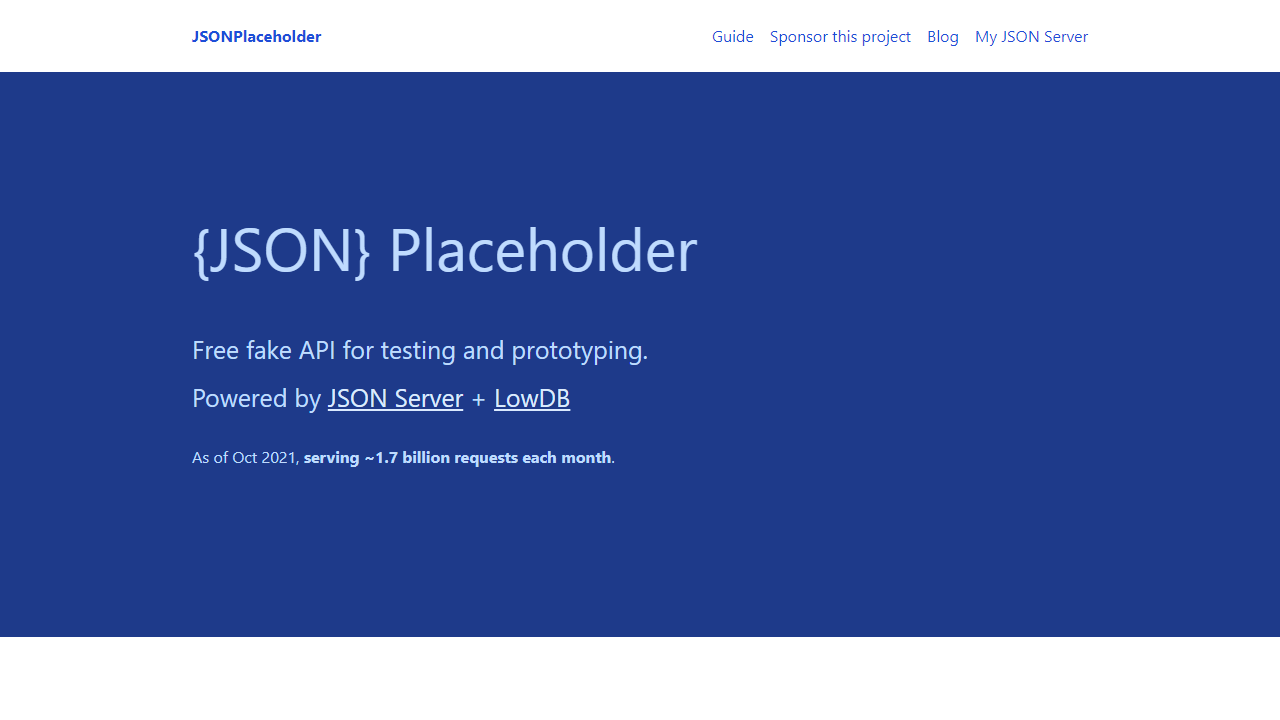
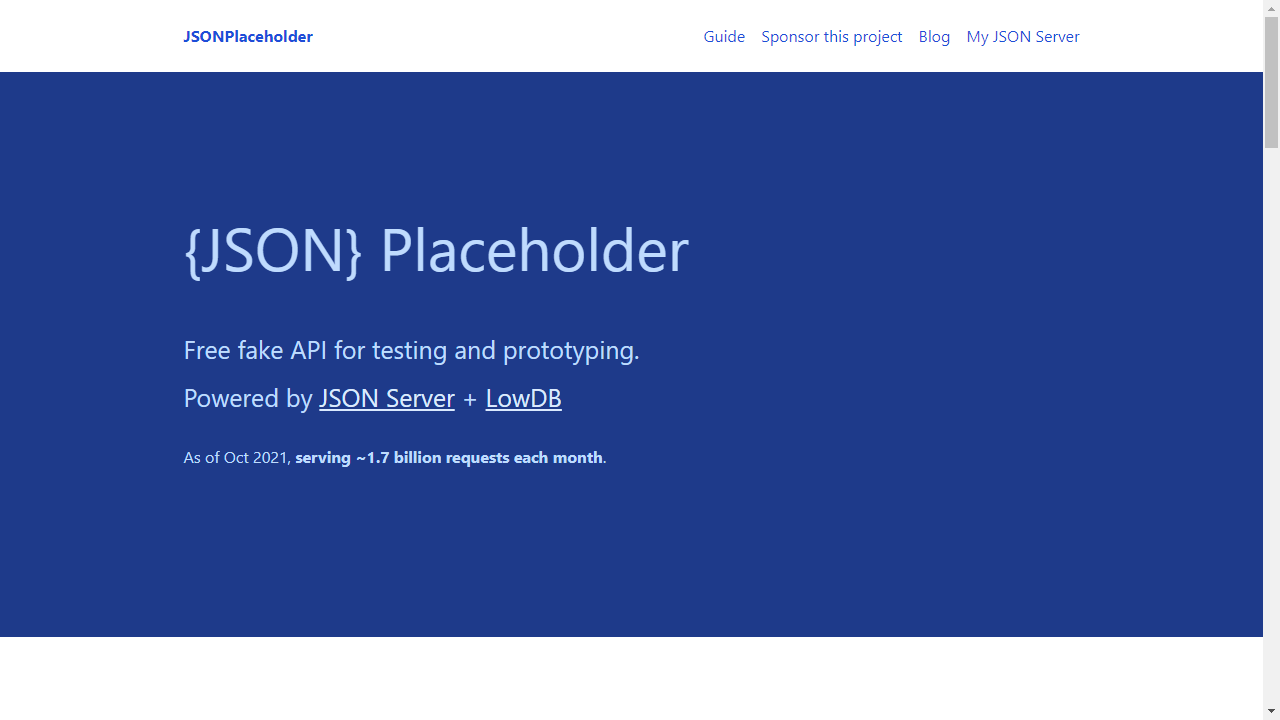
2 commit

diff --git a/specs/noop.spec.js b/specs/noop.spec.js
@@ -1,34 +1,27 @@
 const {MainPage} = require('../framework');
-
 const { chromium } = require('playwright');
-
+const { after } = require('mocha');
 const url = 'https://jsonplaceholder.typicode.com/'
 
-
-
-
-// afterEach( async()=> {
-    
-//     await browser.close();
-// })
-
-
 describe('Noop spec', function(){
-    it('noop it', async function(){
-      
-    const browser = await chromium.launch();
+    let browser = null;
+    let page = null;
     
-    const page = await browser.newPage();
+    beforeEach(async () => {
+    browser = await chromium.launch({headless: false});
+    page = await browser.newPage();
     await page.goto(url);
+    })
+    
+    afterEach(async () => {
+        await browser.close();
+    })
+
+    it('noop it', async function(){
+    
     
     const mainPage = new MainPage(page);
-    // await MainPage.click('/html/body/header/nav/ul/li[1]/a')
-    
-    
     await page.screenshot({ path: `example.png` });
-    
-    await browser.close();
-
 
     })
 })
